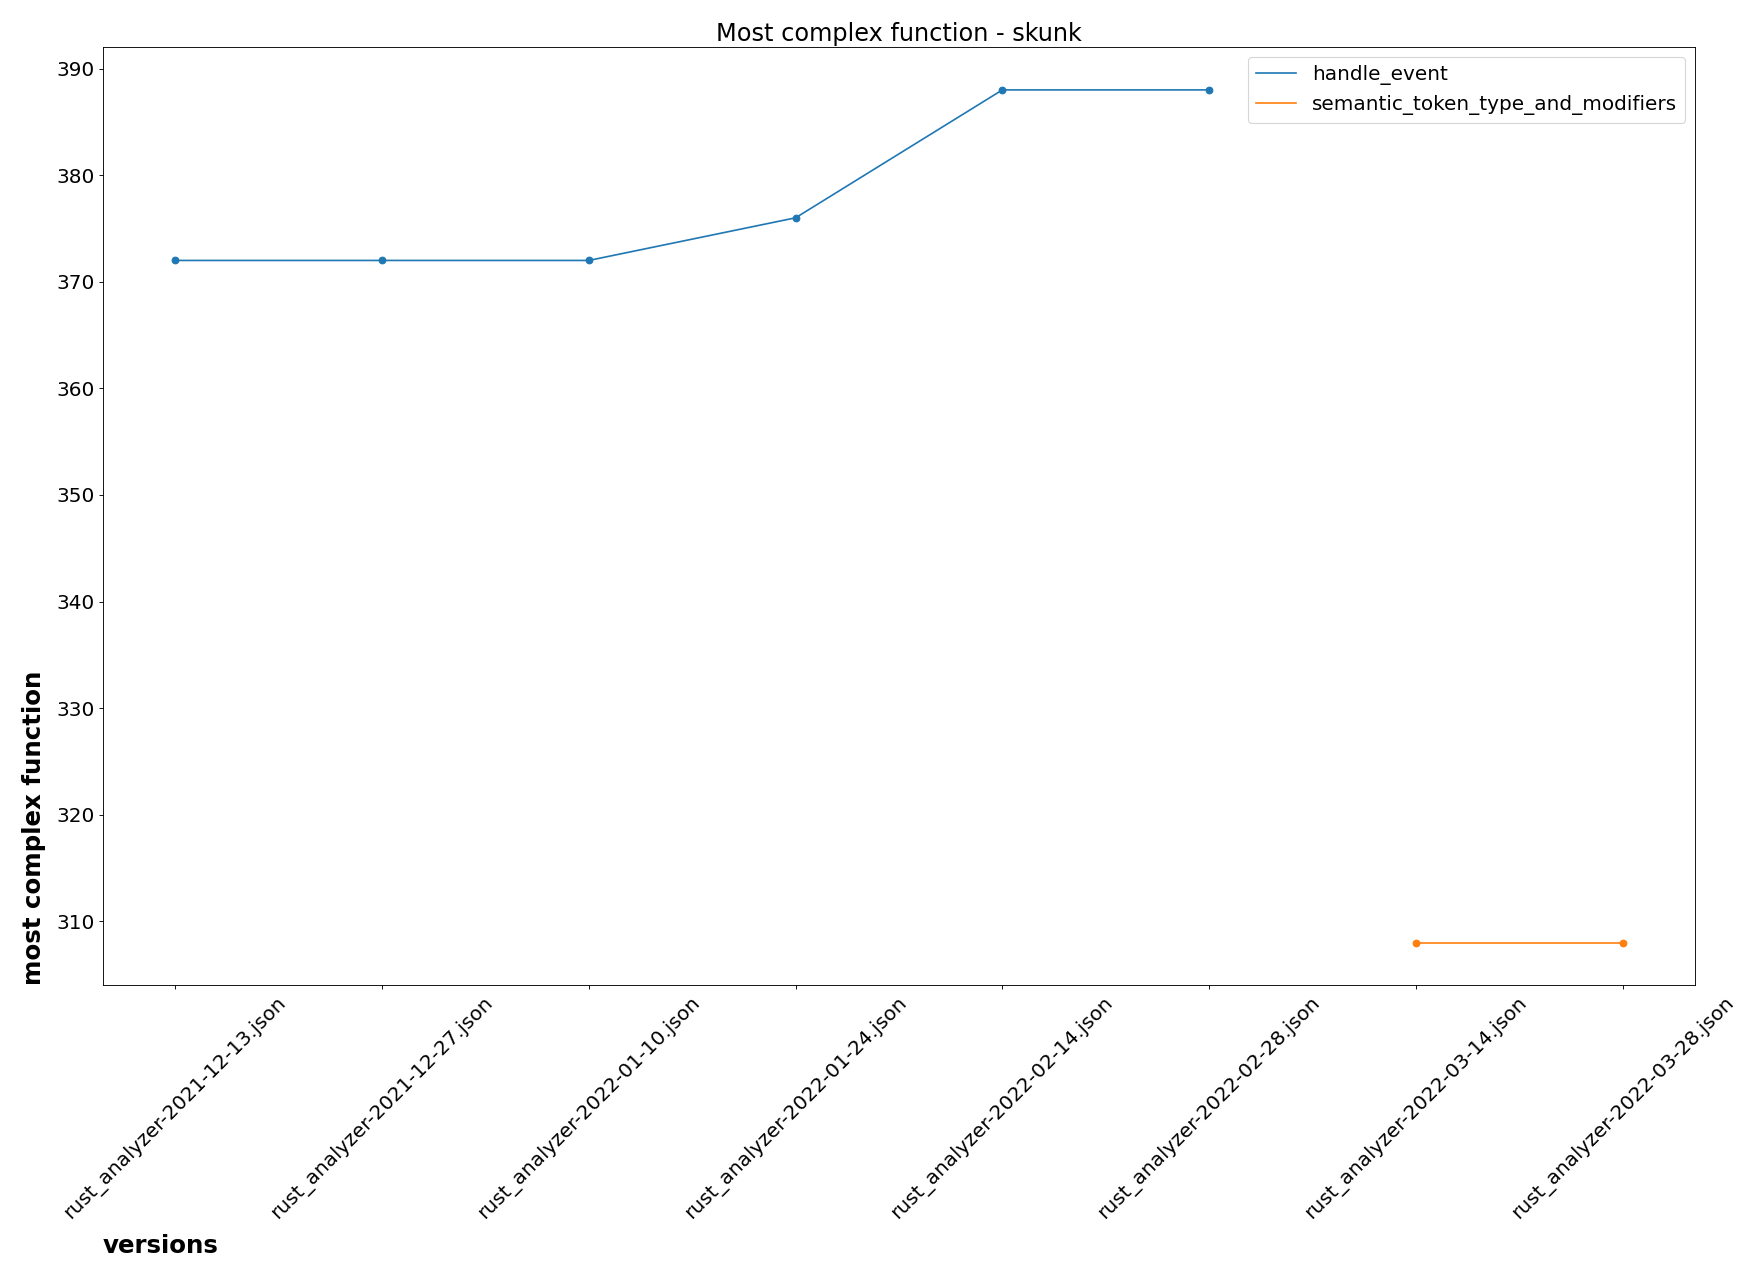
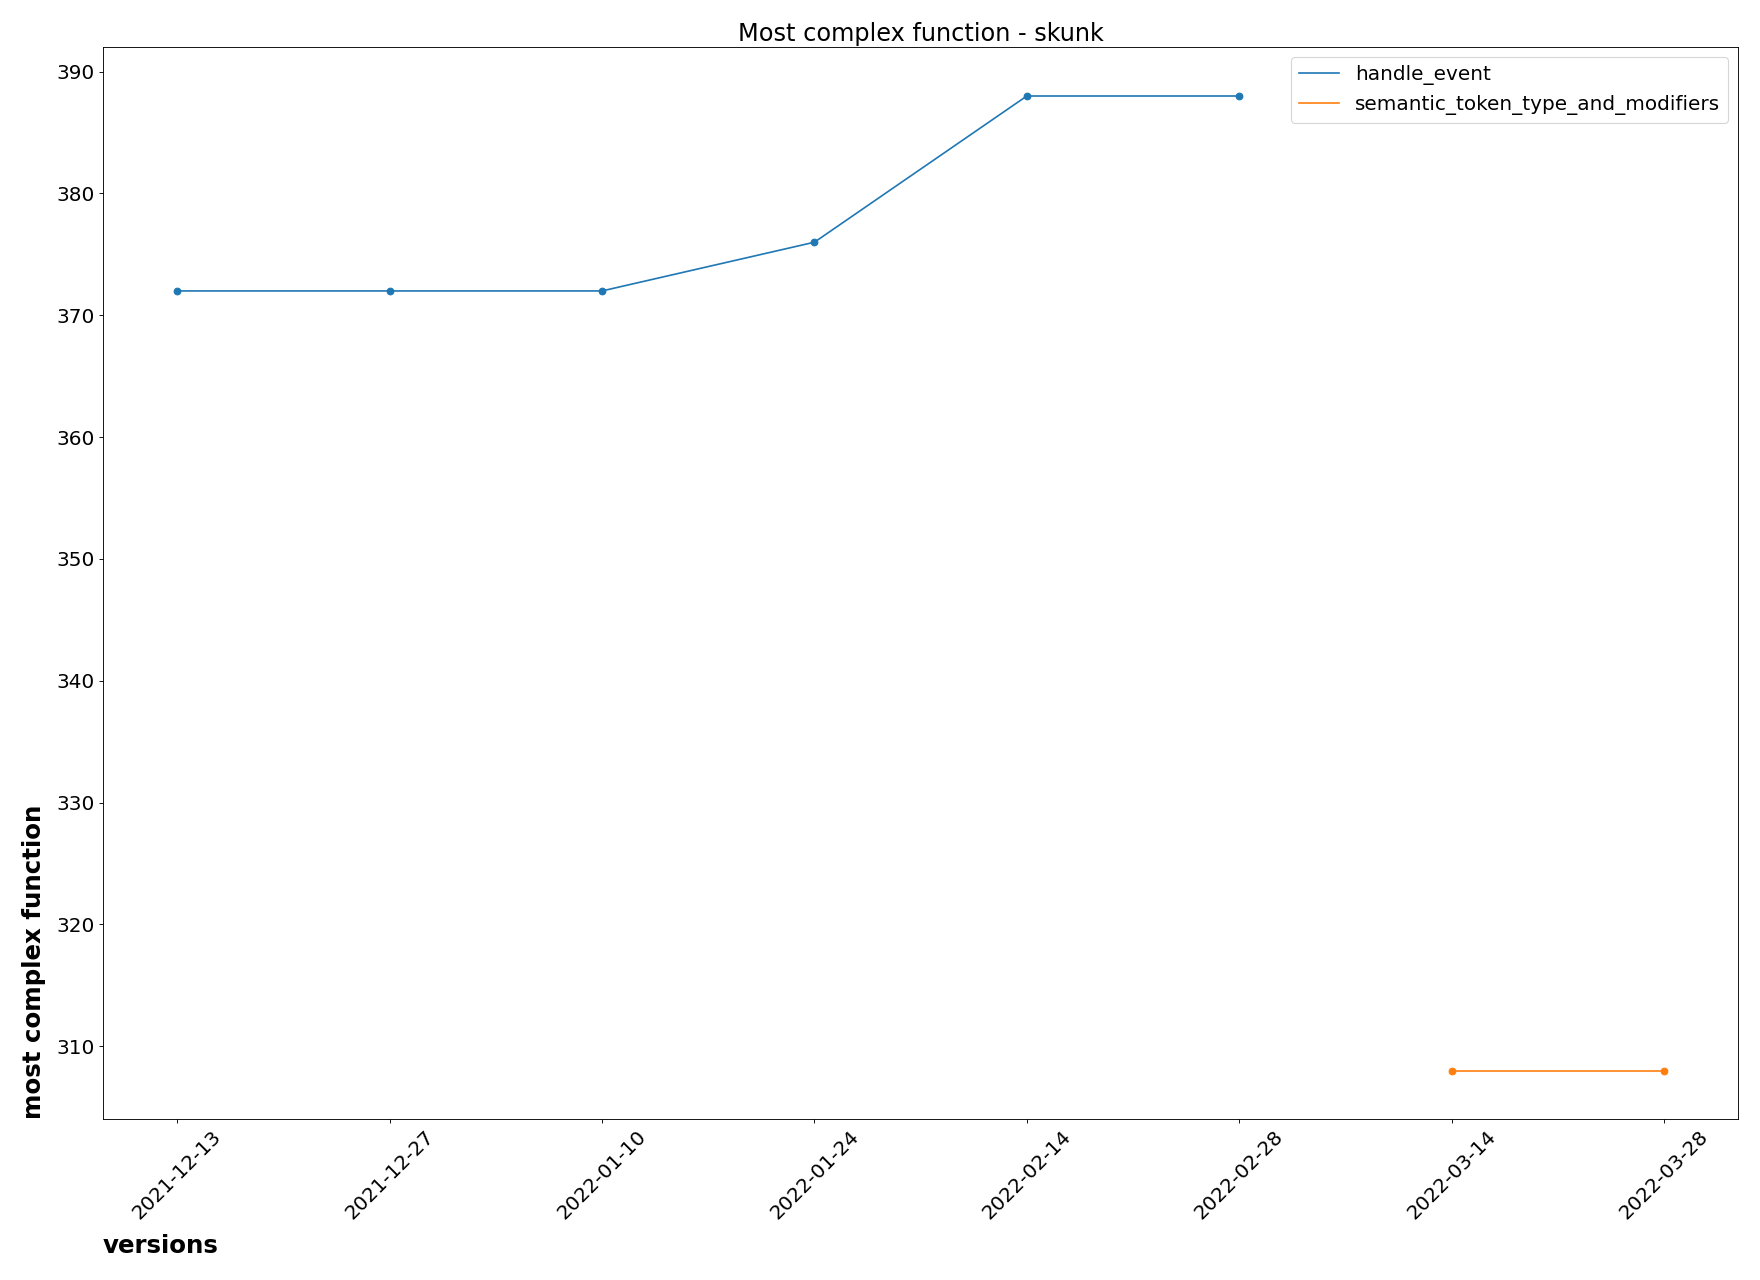
Fix an issue

diff --git a/time-analysis.py b/time-analysis.py
@@ -231,8 +231,9 @@ def print_mcf_per_comp(image_name,map,metric):
         ##wcc plain for noe for testing
         x=map_x[keyf]
         y = value
-        plt.plot(x,y,label=keyf)
-        plt.scatter(x,y)
+        x_axis= ["-".join(k[0:len(k)-5].split("-")[1:]) for k in x ]
+        plt.plot(x_axis,y,label=keyf)
+        plt.scatter(x_axis,y)
     plt.xticks(rotation=45)
     plt.ylabel("most complex function",loc='bottom',labelpad = 10,fontweight='bold',fontsize=22)
     plt.xlabel("versions",loc='left',labelpad = 10,fontweight='bold',fontsize=22)
